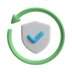
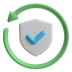
Improve auto-renewal information layout for better user experience
Refactors AutoRenewalInfoModal component to adjust header layout and icon size.

Replit-Commit-Author: Agent
Replit-Commit-Session-Id: 9dd8436b-eefa-4475-aad8-f3a557982b20
Replit-Commit-Screenshot-Url: https://storage.googleapis.com/screenshot-production-us-central1/09004862-5261-4aba-a3f0-851185a3053e/9dd8436b-eefa-4475-aad8-f3a557982b20/LRLDHqR

diff --git a/client/src/components/auto-renewal-info-modal.tsx b/client/src/components/auto-renewal-info-modal.tsx
@@ -21,33 +21,28 @@ export const AutoRenewalInfoModal: React.FC<AutoRenewalInfoModalProps> = ({
 
   return (
     <div className="fixed inset-0 bg-white dark:bg-gray-900 z-50 overflow-y-auto">
-      {/* Header with close button */}
-      <div className="sticky top-0 bg-white dark:bg-gray-900 px-4 py-2 flex justify-end">
-        <button
-          onClick={onClose}
-          className="p-2 hover:bg-gray-100 dark:hover:bg-gray-800 rounded-full transition-colors"
-        >
-          <X className="w-7 h-7 text-gray-500" />
-        </button>
-      </div>
-
-      {/* Content */}
-      <div className="px-4 pb-4 pt-2">
-        {/* Hero Icon */}
-        <div className="flex justify-center mb-4">
+      {/* Compact header with title and close button */}
+      <div className="sticky top-0 bg-white dark:bg-gray-900 px-4 py-3 flex items-center justify-between">
+        <div className="flex items-center space-x-3">
           <img 
             src={autoRenewalIcon} 
             alt="Auto Renewal"
-            className="w-24 h-24 object-contain"
+            className="w-8 h-8 object-contain"
           />
-        </div>
-
-        {/* Title */}
-        <div className="text-center mb-4">
           <h1 className="text-lg font-bold text-gray-900 dark:text-white">
             Stay connected with auto-renewal
           </h1>
         </div>
+        <button
+          onClick={onClose}
+          className="p-1.5 hover:bg-gray-100 dark:hover:bg-gray-800 rounded-full transition-colors"
+        >
+          <X className="w-6 h-6 text-gray-500" />
+        </button>
+      </div>
+
+      {/* Content */}
+      <div className="px-4 pb-4 pt-3">
 
         {/* Perfect for section */}
         <div className="mb-3">
